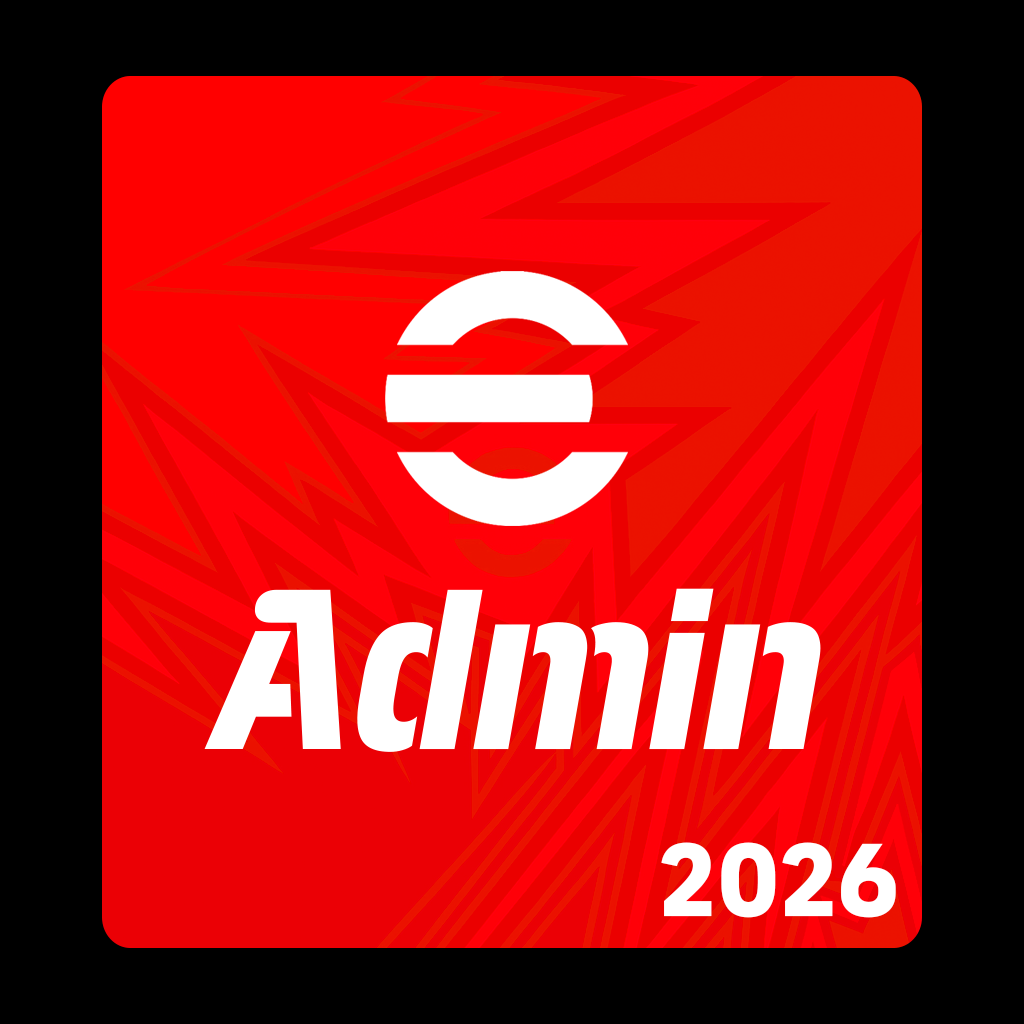
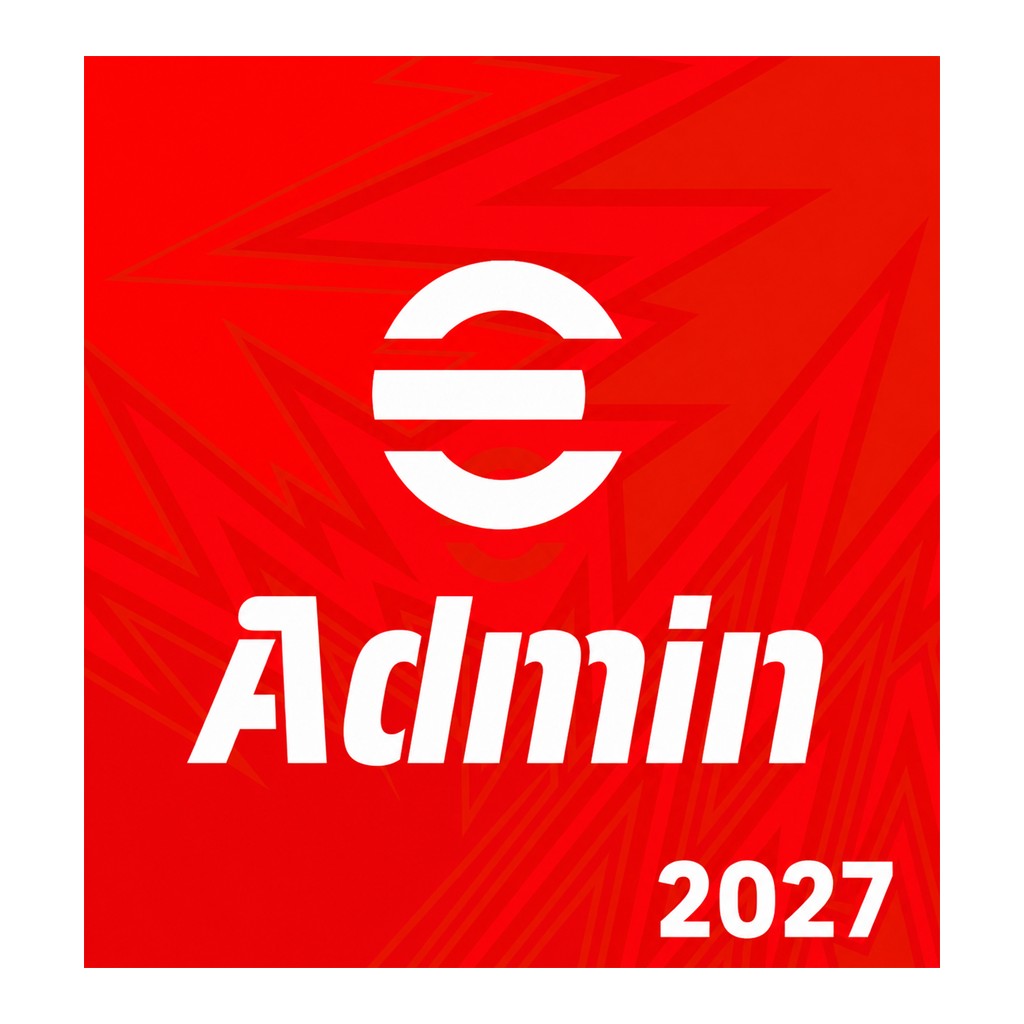
actualizar

diff --git a/index.html b/index.html
@@ -54,7 +54,7 @@
             <label class="check">
                 <div class="check-left">
                     <img src="admin.png" alt="Admin">
-                    <span>Admin 2026</span>
+                    <span>Admin eFootball 2027</span>
                 </div>
                 <input type="checkbox" id="admin">
             </label>
